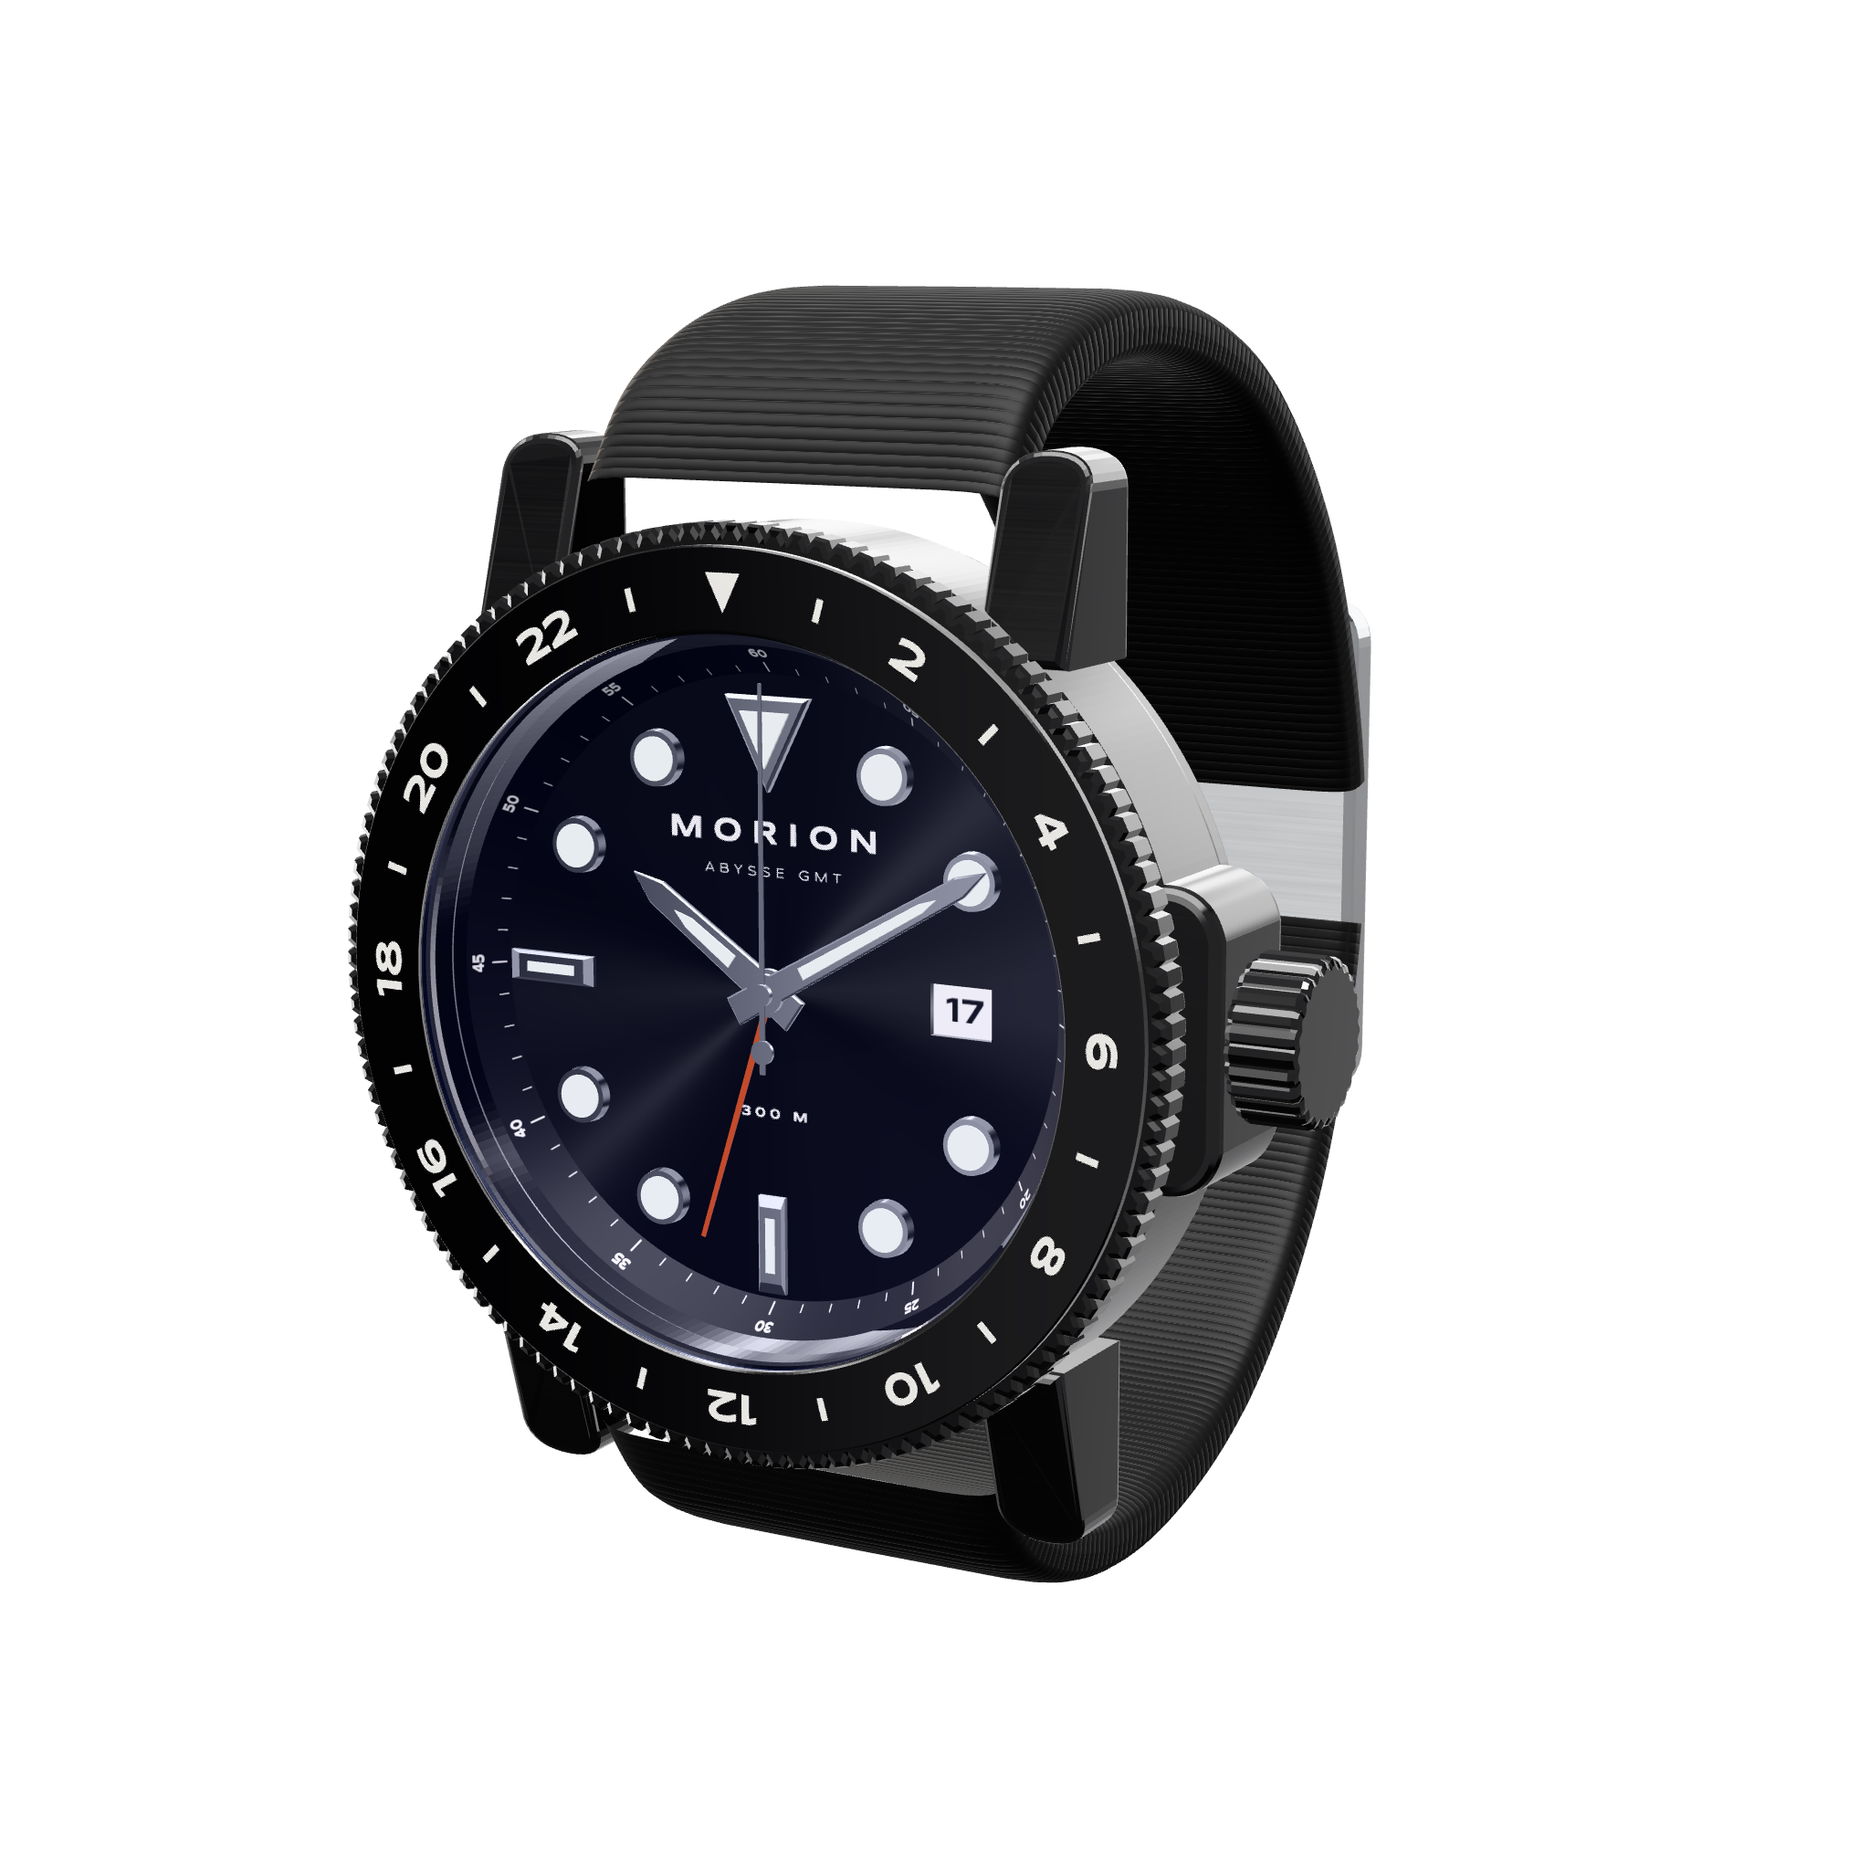
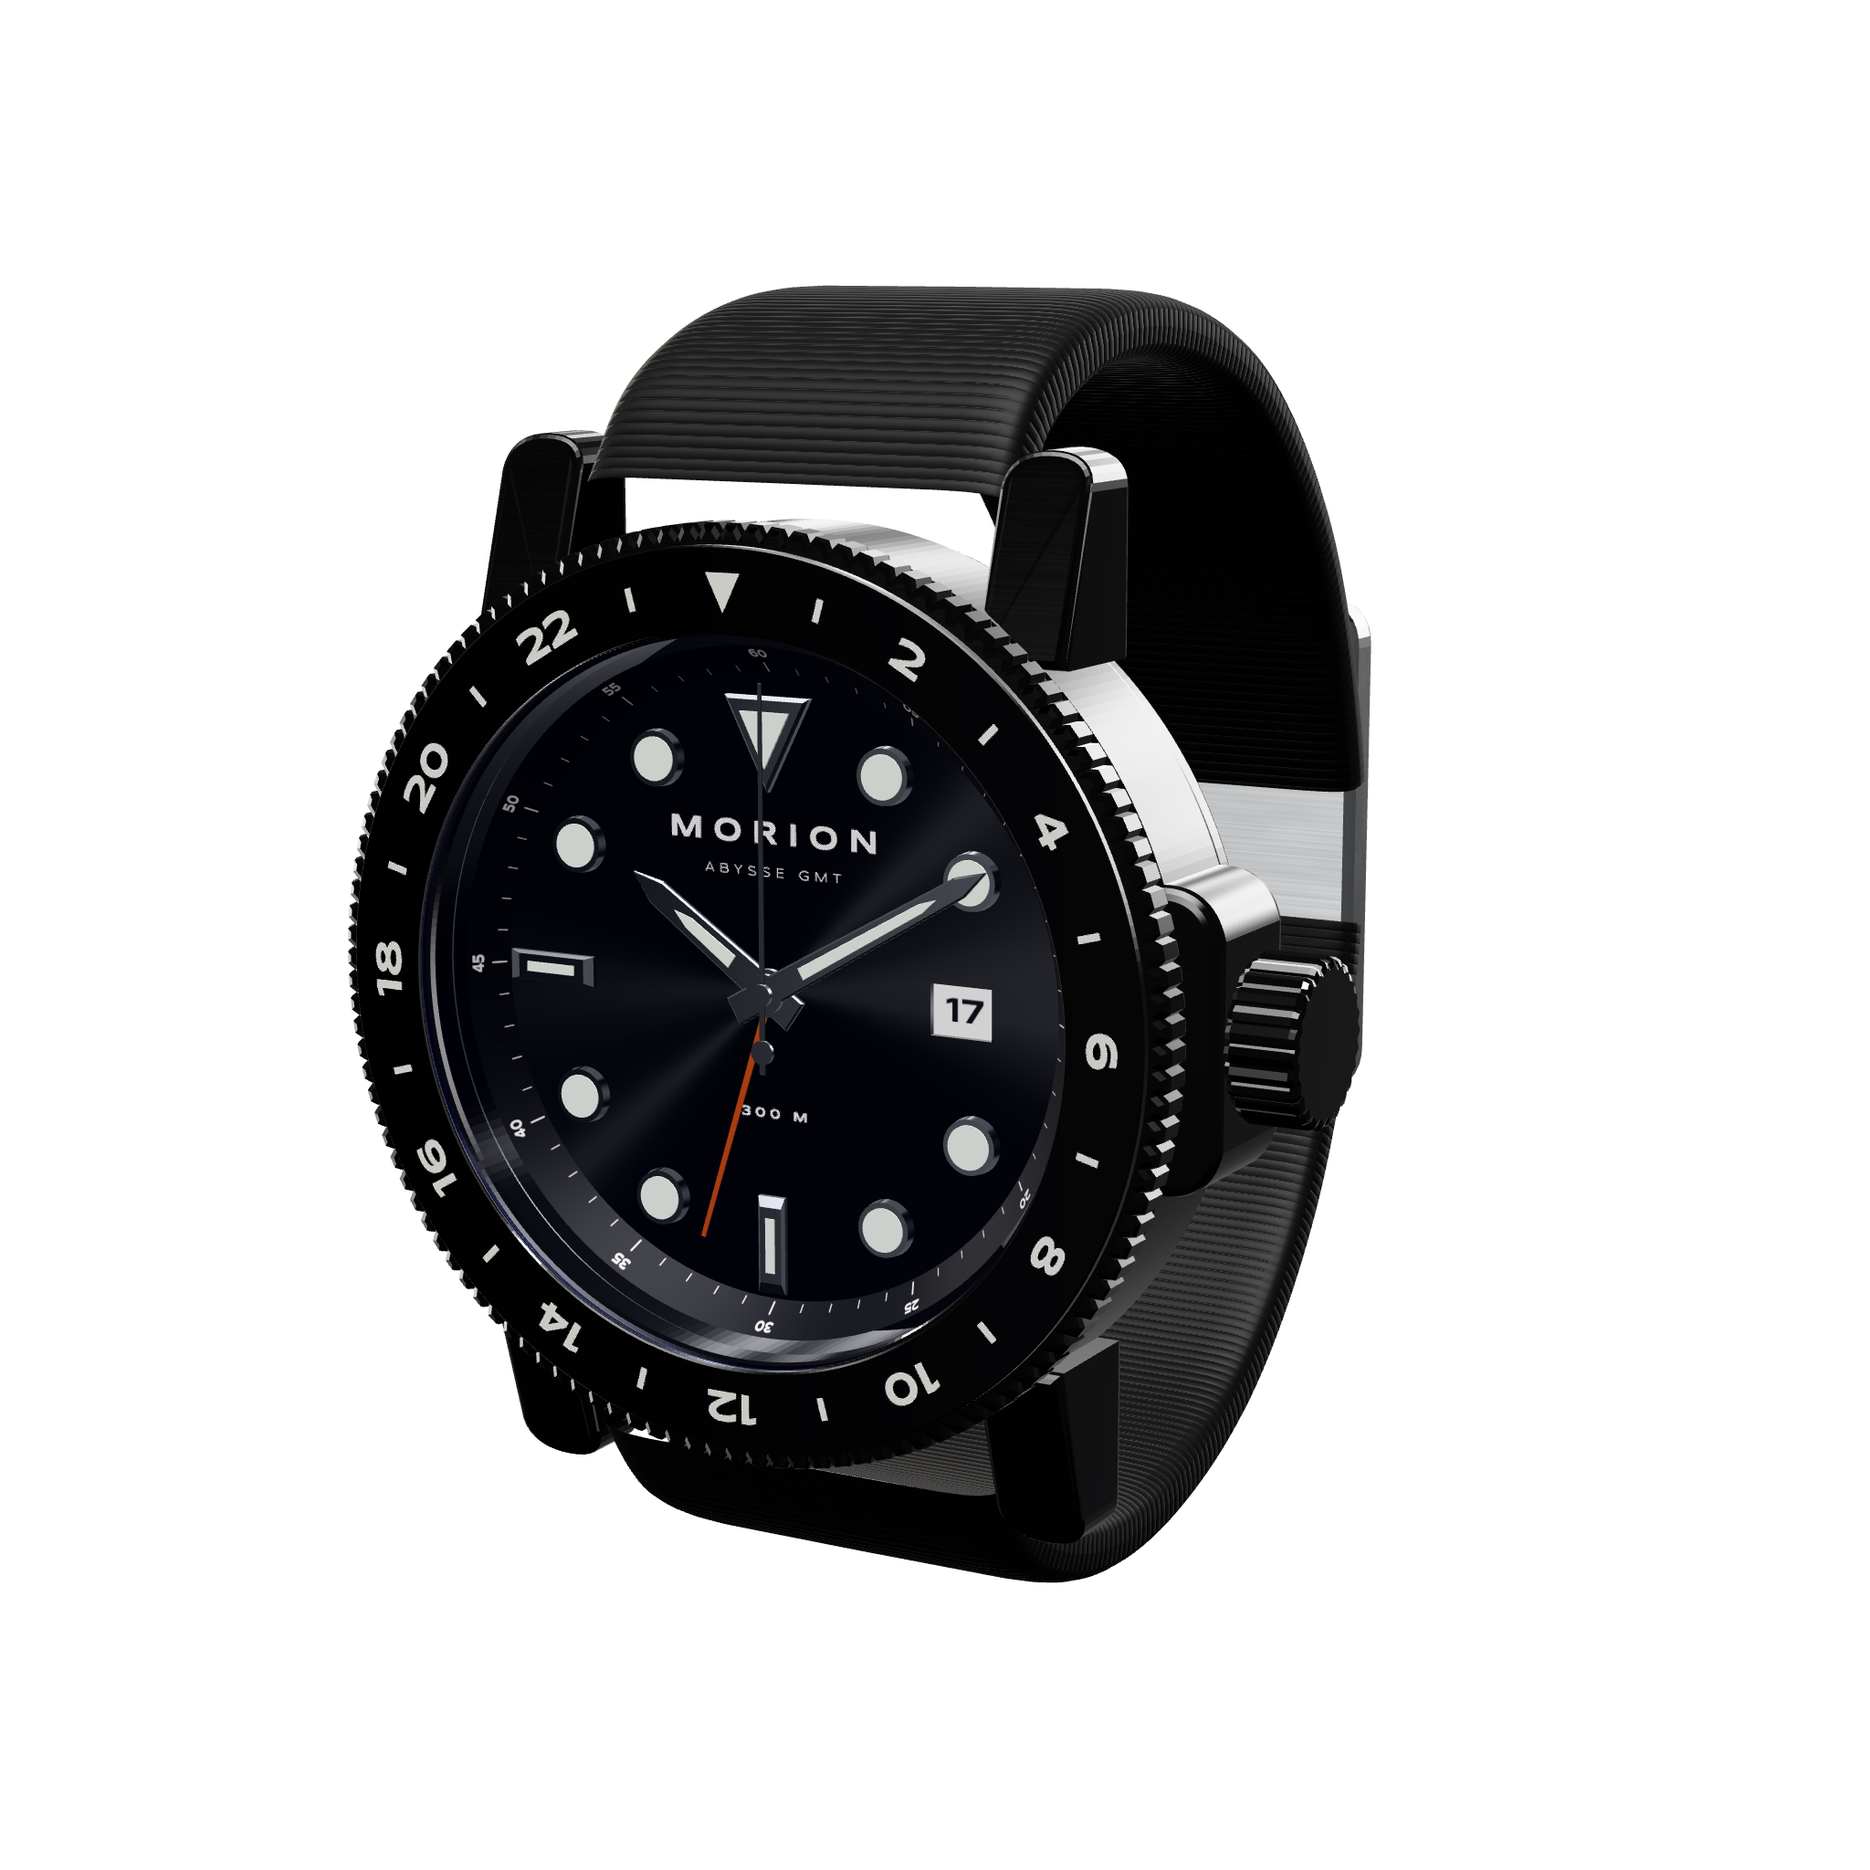
Lumière de studio contrastée, titres en Zodiak, vignettes régénérées
Rendu : nouvel environnement « écrin » (pièce sombre, boîtes à lumière à
bords doux). L'acier reflète enfin du clair et du sombre, il ne vire plus à
l'aluminium ; l'or et la céramique gagnent en profondeur. Le site et la page
studio partagent le même environnement.

Typographie : tous les titres passent en Zodiak (Fontshare), l'échelle monte
(--t-hero, --t-1, --t-2). Le titre d'accueil et celui de l'éclaté ont leurs
sauts de ligne ; le bloc de titre des salles s'élargit.

Vignettes : les 12 références réexportées avec la nouvelle lumière
(_sources/rendus-3d/*-trois-quarts.png, img/rendus/*.webp).

DESIGN.md : section typographie mise à jour. Tests : 60 sur 60.

Changed region(s): [[0.1875, 0.2188, 0.75, 0.8125], [0.2812, 0.5625, 0.3438, 0.5938], [0.3125, 0.75, 0.3438, 0.7812]]

diff --git a/js/stage/renderer.js b/js/stage/renderer.js
@@ -16,7 +16,23 @@ const TARGET = new THREE.Vector3(0, 0, -14);
 export const ENV_PRESETS = {
   clair: { room: 0.5, floor: 0.13, top: 5, left: 7, right: 5, back: 4, front: 2.2, flags: 0.05, rim: 2.6 },
   nuit: { room: 0.015, floor: 0.01, top: 6, left: 10, right: 6, back: 5, front: 0.8, flags: 0, rim: 3 },
+  // Écrin : la pièce est sombre et les boîtes à lumière ont des bords doux. Un métal ne se lit
+  // comme du métal que s'il reflète du clair ET du sombre ; dans une pièce grise, il vire à l'aluminium.
+  ecrin: { room: 0.16, floor: 0.04, top: 6.5, left: 8.5, right: 5.5, back: 4.5, front: 4.2, flags: 0.02, rim: 3.2, doux: true },
 };
+
+// Dégradé d'une boîte à lumière : plein au centre, fondu vers les bords (aucun reflet à arête vive).
+function softbox() {
+  const c = document.createElement('canvas');
+  c.width = c.height = 128;
+  const g = c.getContext('2d');
+  const d = g.createRadialGradient(64, 64, 8, 64, 64, 64);
+  d.addColorStop(0, '#fff'); d.addColorStop(0.55, '#d0d0d0'); d.addColorStop(1, '#000');
+  g.fillStyle = d; g.fillRect(0, 0, 128, 128);
+  const t = new THREE.CanvasTexture(c);
+  t.colorSpace = THREE.SRGBColorSpace;
+  return t;
+}
 
 function buildStudioEnv(renderer, preset = 'clair') {
   const p = ENV_PRESETS[preset];
@@ -27,13 +43,15 @@ function buildStudioEnv(renderer, preset = 'clair') {
   );
   env.add(room);
 
+  const doux = p.doux ? softbox() : null;
   const panel = (w, h, intensity, pos, look, tint = [1, 1, 1]) => {
+    // Bords doux : la boîte s'ajoute à la pièce et s'y fond, agrandie pour garder la même surface utile.
+    const k = doux && intensity > 0.5 ? 1.35 : 1;
     const m = new THREE.Mesh(
-      new THREE.PlaneGeometry(w, h),
-      new THREE.MeshBasicMaterial({
-        color: new THREE.Color(tint[0] * intensity, tint[1] * intensity, tint[2] * intensity),
-        side: THREE.DoubleSide,
-      }),
+      new THREE.PlaneGeometry(w * k, h * k),
+      new THREE.MeshBasicMaterial(k > 1
+        ? { color: new THREE.Color(tint[0] * intensity, tint[1] * intensity, tint[2] * intensity), map: doux, side: THREE.DoubleSide, transparent: true, blending: THREE.AdditiveBlending, depthWrite: false }
+        : { color: new THREE.Color(tint[0] * intensity, tint[1] * intensity, tint[2] * intensity), side: THREE.DoubleSide }),
     );
     m.position.set(...pos);
     m.lookAt(...look);
@@ -64,6 +82,7 @@ function buildStudioEnv(renderer, preset = 'clair') {
   const tex = pmrem.fromScene(env, 0.045, 0.5, 1000, { size: 512 }).texture;
   pmrem.dispose();
   env.traverse((o) => { o.geometry?.dispose(); o.material?.dispose(); });
+  doux?.dispose();
   return tex;
 }
 

diff --git a/css/pages/accueil.css b/css/pages/accueil.css
@@ -20,8 +20,8 @@
   font: 400 var(--t-geant) / 1 var(--f-display); letter-spacing: 0.06em; white-space: nowrap;
   color: rgb(236 234 230 / 0.075); pointer-events: none; user-select: none;
 }
-.hero-accueil__texte { position: relative; max-width: 31rem; }
-.hero-accueil__texte h1 { font-size: var(--t-1); }
+.hero-accueil__texte { position: relative; max-width: min(46rem, 48vw); }
+.hero-accueil__texte h1 { font-size: var(--t-hero); line-height: 1; text-wrap: nowrap; }
 .hero-accueil__texte p { margin-top: var(--e-4); color: var(--c-encre-2); max-width: 27rem; }
 .actions { display: flex; flex-wrap: wrap; gap: var(--e-3); margin-top: var(--e-6); }
 .hero-accueil__etiquette {
@@ -33,9 +33,9 @@
 
 /* ---- Assemblage (épinglé) ---- */
 .assemblage { position: relative; height: 100dvh; padding: calc(var(--rehaut) + 7rem) var(--marge) calc(var(--rehaut) + 3rem); }
-.assemblage__texte { max-width: 26rem; display: grid; gap: var(--e-4); }
-.assemblage__texte h2 { font-size: var(--t-2); line-height: 1.15; text-wrap: balance; }
-.assemblage__texte p { color: var(--c-encre-2); text-wrap: pretty; }
+.assemblage__texte { max-width: 34rem; display: grid; gap: var(--e-4); }
+.assemblage__texte h2 { font-size: var(--t-2); line-height: 1.1; text-wrap: balance; }
+.assemblage__texte p { color: var(--c-encre-2); text-wrap: pretty; max-width: 26rem; }
 .assemblage__compteur {
   position: absolute; left: var(--marge); bottom: calc(var(--rehaut) + 2.5rem);
   display: flex; align-items: baseline; gap: var(--e-2);
@@ -234,6 +234,7 @@
 /* ---- Étroit ---- */
 @media (max-width: 719px) {
   .hero-accueil { padding-bottom: calc(var(--rehaut) + 2rem); }
+  .hero-accueil__texte { max-width: none; }
   /* Empilées, deux pilules de largeurs différentes se lisent comme une erreur de gabarit. */
   .hero-accueil .actions { display: grid; justify-items: stretch; }
   /* La montre est haute et centrée sur écran étroit : l'ombre la suit. */

diff --git a/js/pages/home.js b/js/pages/home.js
@@ -52,7 +52,7 @@ function renderAccueil() {
   <section class="hero-accueil" data-hero data-pose-reduite="accueil">
     <p class="geant" aria-hidden="true">MORION</p>
     <div class="hero-accueil__texte">
-      <h1 tabindex="-1">Une montre se compose pièce par pièce.</h1>
+      <h1 tabindex="-1">Une montre<br>se compose<br>pièce par pièce.</h1>
       <p>Trois familles, quatre matières, un calibre maison. Vous choisissez chaque pièce, l’atelier l’assemble.</p>
       <div class="actions">
         <a class="btn btn--plein" href="montre/MOR-PR42-AC">Composer la vôtre</a>
@@ -64,7 +64,7 @@ function renderAccueil() {
 
   <section class="assemblage" data-assemblage aria-labelledby="assemblage-titre" data-pose-reduite="assemblage">
     <div class="assemblage__texte">
-      <h2 id="assemblage-titre">Le morion a six faces. Le Prisme, cinquante-neuf pièces.</h2>
+      <h2 id="assemblage-titre">Le morion a six faces.<br>Le Prisme, cinquante-neuf pièces.</h2>
       <p>Le Prisme se démonte sous vos yeux, de la glace saphir au rotor, puis se remonte. Touchez une pièce pour lire sa fiche.</p>
     </div>
     <p class="assemblage__compteur"><span class="assemblage__legende">Pièce</span> <span class="num" data-compteur>00</span> <span class="assemblage__legende">sur <span class="num" data-total>59</span></span></p>

diff --git a/css/shell.css b/css/shell.css
@@ -113,7 +113,7 @@ html[data-encre="sombre"] .rehaut .cinq { stroke: rgb(28 24 16 / 0.62); }
 }
 .menu.ouvert { visibility: visible; opacity: 1; }
 .menu__liens { display: grid; gap: var(--e-3); list-style: none; padding: 0; }
-.menu__liens a { font: 500 var(--t-1) / 1.1 var(--f-texte); text-decoration: none; letter-spacing: -0.02em; display: block; padding: var(--e-2) 0; }
+.menu__liens a { font: 400 var(--t-1) / 1.1 var(--f-titre); text-decoration: none; letter-spacing: -0.02em; display: block; padding: var(--e-2) 0; }
 .menu__familles { display: grid; gap: var(--e-4); list-style: none; padding: 0; border-top: var(--filet) solid var(--c-filet); padding-top: var(--e-5); }
 .menu__familles a { display: flex; justify-content: space-between; gap: var(--e-4); text-decoration: none; color: var(--c-encre-2); padding: var(--e-2) 0; }
 .menu__familles a span:last-child { color: var(--c-encre); font-variant-numeric: tabular-nums; }

diff --git a/404.html b/404.html
@@ -27,6 +27,8 @@
 <link rel="preconnect" href="https://fonts.googleapis.com">
 <link rel="preconnect" href="https://fonts.gstatic.com" crossorigin>
 <link rel="stylesheet" href="https://fonts.googleapis.com/css2?family=Albert+Sans:wght@400;500;600&family=Michroma&family=Syncopate:wght@400;700&display=swap">
+<link rel="preconnect" href="https://cdn.fontshare.com" crossorigin>
+<link rel="stylesheet" href="https://api.fontshare.com/v2/css?f[]=zodiak@400,700&display=swap">
 <script>
   // Feuilles du site écrites après <base> : sur une route profonde (/montre/…), le préchargeur
   // du navigateur les demanderait sinon à la mauvaise adresse.

diff --git a/index.html b/index.html
@@ -27,6 +27,8 @@
 <link rel="preconnect" href="https://fonts.googleapis.com">
 <link rel="preconnect" href="https://fonts.gstatic.com" crossorigin>
 <link rel="stylesheet" href="https://fonts.googleapis.com/css2?family=Albert+Sans:wght@400;500;600&family=Michroma&family=Syncopate:wght@400;700&display=swap">
+<link rel="preconnect" href="https://cdn.fontshare.com" crossorigin>
+<link rel="stylesheet" href="https://api.fontshare.com/v2/css?f[]=zodiak@400,700&display=swap">
 <script>
   // Feuilles du site écrites après <base> : sur une route profonde (/montre/…), le préchargeur
   // du navigateur les demanderait sinon à la mauvaise adresse.

diff --git a/js/studio.js b/js/studio.js
@@ -7,7 +7,8 @@ import { DIAL_FONT } from './watch/dial.js';
 import { buildWatch } from './watch/build.js';
 
 const params = new URLSearchParams(location.search);
-const stage = createStage(document.getElementById('stage'));
+// Même environnement lumineux que le site : les vignettes exportées montrent la montre telle qu'on la voit.
+const stage = createStage(document.getElementById('stage'), { env: 'ecrin' });
 let config = decode(params.get('c') || '') || defaultConfig(params.get('f') || 'PR42', params.get('fin') || 'AC');
 
 await Promise.all([document.fonts.load(`700 40px ${DIAL_FONT}`), document.fonts.load(`400 40px ${DIAL_FONT}`)]);

diff --git a/css/base.css b/css/base.css
@@ -34,7 +34,7 @@ img, svg, video, canvas { display: block; max-width: 100%; }
 button, input, select, textarea { font: inherit; color: inherit; }
 button { cursor: pointer; background: none; border: 0; padding: 0; }
 a { color: inherit; text-decoration-thickness: var(--filet); text-underline-offset: 0.22em; }
-h1, h2, h3, h4 { font-weight: 500; line-height: 1.08; letter-spacing: -0.015em; text-wrap: balance; }
+h1, h2, h3, h4 { font-family: var(--f-titre); font-weight: 400; line-height: 1.04; letter-spacing: -0.012em; text-wrap: balance; }
 p { text-wrap: pretty; }
 ::selection { background: var(--c-bleui); color: var(--c-fond); }
 

diff --git a/js/main.js b/js/main.js
@@ -67,7 +67,7 @@ const toutesEtapes = () => [etapes.scene, ...etapes.textures, etapes.montre, eta
 const scene3d = fontsReady.then(async () => {
   performance.mark('morion:fontes');
   await nextFrame();
-  const stage = createStage($('#scene'), { controls: false, loop: 'demande', dpr, exposure: 0.95, envIntensity: 0.85, keyLight: 0.6 });
+  const stage = createStage($('#scene'), { controls: false, loop: 'demande', dpr, env: 'ecrin', exposure: 1.0, envIntensity: 1, keyLight: 0.7 });
   etapes.scene();
   performance.mark('morion:scene');
   // Textures générées pixel par pixel : une par image, pour que l’intro ne se fige pas.

diff --git a/css/tokens.css b/css/tokens.css
@@ -49,8 +49,10 @@
 
   /* Échelle typographique fluide (390 → 1440) */
   --t-geant: clamp(4.5rem, 15.5vw, 16rem);
-  --t-1: clamp(2rem, 1.35rem + 2.2vw, 3.25rem);
-  --t-2: clamp(1.5rem, 1.15rem + 1.2vw, 2.25rem);
+  --f-titre: 'Zodiak', 'Iowan Old Style', Georgia, serif;   /* empattements taillés en biseau, comme les facettes du cristal */
+  --t-hero: clamp(2.5rem, 1.1rem + 4.2vw, 5.1rem);
+  --t-1: clamp(2.2rem, 1.25rem + 3.2vw, 4.4rem);
+  --t-2: clamp(1.625rem, 1.15rem + 1.6vw, 2.75rem);
   --t-3: clamp(1.25rem, 1.1rem + 0.5vw, 1.5rem);
   --t-corps: 1.0625rem;
   --t-petit: 0.875rem;

diff --git a/css/pages/collection.css b/css/pages/collection.css
@@ -15,7 +15,7 @@ html.salles-actives, html.salles-actives body { overflow: hidden; }
 .salles.edito-ouvert .salles__ui { opacity: 0; }
 .salles__ui > * { pointer-events: auto; }
 .salle {
-  position: absolute; left: var(--marge); bottom: calc(var(--rehaut) + 6.5rem); max-width: 30rem;
+  position: absolute; left: var(--marge); bottom: calc(var(--rehaut) + 6.5rem); max-width: min(40rem, 46vw);
   display: grid; gap: var(--e-3); justify-items: start;
 }
 .salle__titre { font-size: var(--t-1); }

diff --git a/DESIGN.md b/DESIGN.md
@@ -254,6 +254,11 @@ Cette zone appartient à la montre.
 ## Typography
 
 **Display Font :** Michroma (repli Albert Sans, sans-serif)
+**Title Font :** Zodiak 400 (Fontshare, repli Iowan Old Style, Georgia, serif), depuis le 10 octobre 2026 :
+tous les titres `h1` à `h4`, `--f-titre`. Des empattements taillés en biseau, comme les facettes du
+cristal : une maison horlogère sans empattements se lisait comme une marque de technologie. Échelle
+relevée : `--t-hero` (accueil), `--t-1` et `--t-2` dans `css/tokens.css`, qui font foi sur les tailles
+citées plus bas.
 **Body Font :** Albert Sans (repli system-ui, sans-serif)
 **Label/3D Font :** Syncopate, uniquement dans les textures de la montre 3D
 
